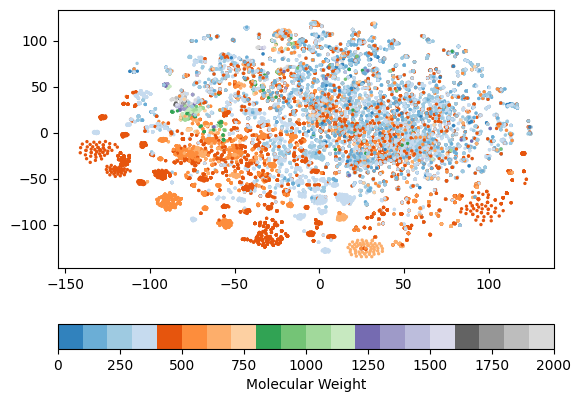
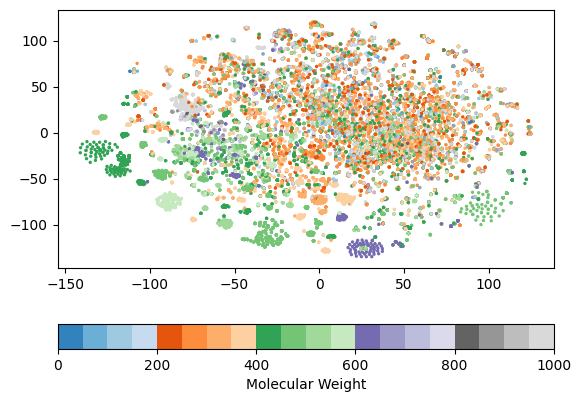
added embedding graphs

diff --git a/Plot_embeddings.py b/Plot_embeddings.py
@@ -109,7 +109,7 @@ smiles_seq = pd.concat([smiles_seq, pd.read_csv('dataset/DAVIS_val.smi')])
 smiles_seq = pd.concat([smiles_seq, pd.read_csv('dataset/DAVIS_test.smi')])
 smiles_seq['weight'] = [Descriptors.ExactMolWt(Chem.MolFromSmiles(smi)) for smi in smiles_seq['SMILES']]
 print(smiles_seq)
-plt.scatter(x=smi_embedded[:,0], y=smi_embedded[:,1], s=2, c=smiles_seq['weight'], cmap='tab20c', vmin=0, vmax=2000)#, vmin=-1, vmax=1)
+plt.scatter(x=smi_embedded[:,0], y=smi_embedded[:,1], s=2, c=smiles_seq['weight'], cmap='tab20c', vmin=0, vmax=1000)#, vmin=-1, vmax=1)
 #plt.colorbar()
 plt.colorbar(label="Molecular Weight", orientation="horizontal")
 
